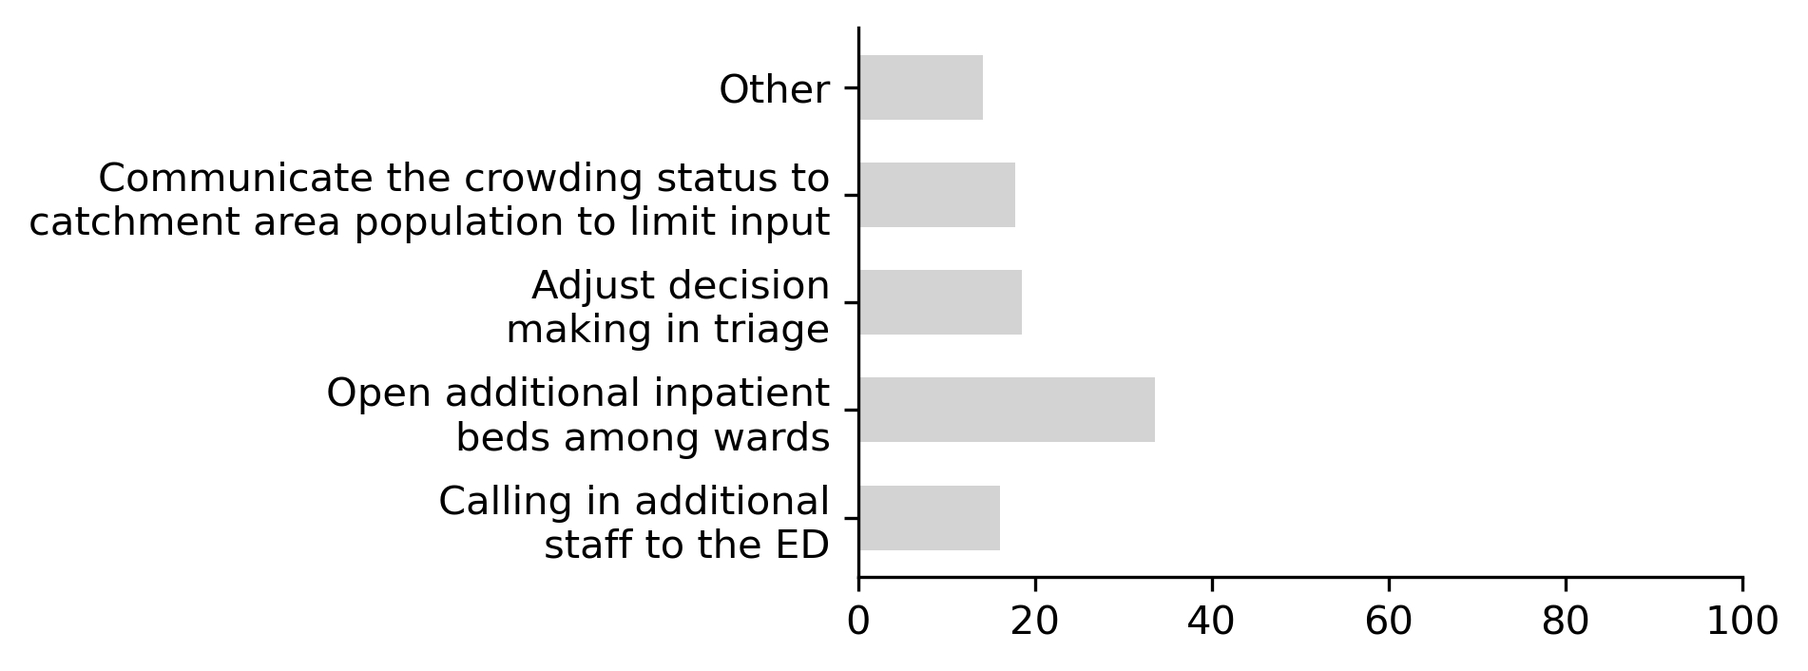
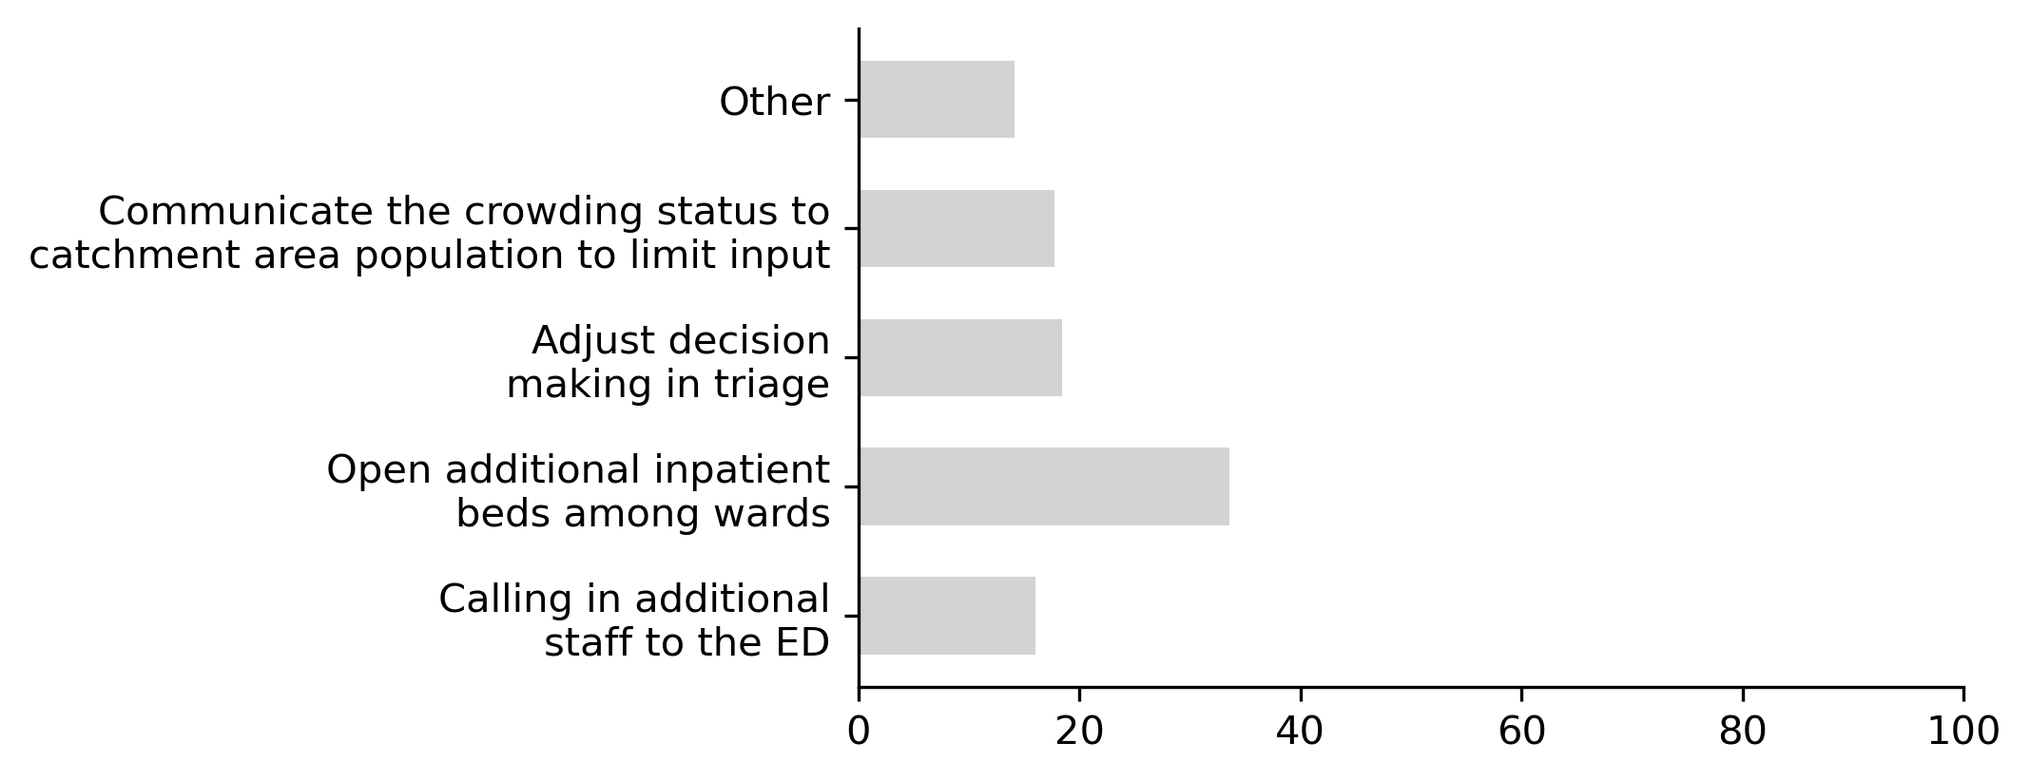
Cosmetic changes and layout improvements

diff --git a/report/manuscript.tex b/report/manuscript.tex
@@ -9,6 +9,8 @@
 \usepackage{makecell}
 \usepackage{xcolor}
 \usepackage{amsmath}
+\usepackage{hyperref}
+
 
 
 \title{Emergency department crowding in Europe: Causes, effects, extent and solutions as evaluated by 364 emergency department physicians from 26 European countries}
@@ -35,13 +37,13 @@ Second, the causes of crowding have been hypothesised and it is certainly easy t
 
 Third, there is an increasing interest in applying demand management solutions to the crowding problem. The rationale here is simple and well-justified: if we can predict when the ED will be crowded, we can enable pre-emptive meausures to prevent crowding and save lives in the process. This is analogous to patient monitoring that is extensively done in all hospitals dedicated to quality care: instead of utilizing a national early warning score to predict the probability of death for a single patient, ED demand management effort aims to create an early warning score to predict the probability of death for a cohort of ED patients. These articles have reached a level of high mathematical and compuational complexity and demonstrated sometimes impressive performance retrospectively. However, we have seen very little engagement with the ED stakeholders regarding many important questions in this area such as: do clinicians actually want a predictive model to their ED? If yes, would it enable relevant interventions to alleviate crowding problem? Who -- if anyone -- is able to act based on the information? What should we actually predict for: arrivals, occupancy or something else?
 
-In this article, we aim to bridge the gap between policymakers, emergency department physicians and mathematicians by asking these unclear questions from the people who know the answers first hand: those clinicians who work in the front lines of the emergency departments all over Europe.
+In this article, we aim to bridge the gap between policymakers, emergency department physicians and mathematicians by asking these unclear questions from the people who know the answers first hand: those clinicians who work in the front lines of the emergency departments all over Europe. Our contributions are as follows: 
 
 % This might seem mundane but it demonstrates something important: almost everyone has a first hand experience visiting an ED and that experience ends up shaping the image of the healthcare system.
 
   
-\textcolor{red}{Lisäanalyysi: ruuhka terveydenhuollon kustannusten funktiona}
-\textcolor{red}{Lisäanalyysi: ruuhka yksityinen vs. julkinen terveydenhuolto}
+% \textcolor{red}{Lisäanalyysi: ruuhka terveydenhuollon kustannusten funktiona}
+% \textcolor{red}{Lisäanalyysi: ruuhka yksityinen vs. julkinen terveydenhuolto}
 
 
 
@@ -88,34 +90,29 @@ where $\texttt{c}_k$ is the country-level response for country $k$, $\texttt{h}_
 	\texttt{EU} = \sum_{k=1}^{K} w_k \cdot \texttt{c}_k
 \end{equation}
 
-where $\texttt{EU}$ is the Europe-level response, $\texttt{c}_k$ is the country-level response for country $k$, $w_k = \frac{p_k}{\sum_{k=1}^{K} p_k}$ is the population weight for country $k$, $p_k$ is the population of country $k$, and $K$ is the total number of countries.
-
-Later, whenever results are represented or discussed, the specific level is expressed using the terminology above.
+where $\texttt{EU}$ is the Europe-level response, $\texttt{c}_k$ is the country-level response for country $k$, $w_k = \frac{p_k}{\sum_{k=1}^{K} p_k}$ is the population weight for country $k$, $p_k$ is the population of country $k$, and $K$ is the total number of countries. Later, whenever results are represented or discussed, the specific level is expressed using the terminology above.
 
 \section{Results}
 
 
-\subsection{Respondents}
-
-The respondent characteristics are presented in Table \ref{tab:description}. There were a total of 364 responses from 254 individual hospitals and from 26 individual countries. The number of responses from different countries was heavily Pareto distributed: for example the United Kindgom and Turkey provided 92 and 39 responses respectively whereas some countires such as Belgium, Lithuania or Switzerland had only one respondent each. 163 (45\%) of respondents were specialists, 91 (25\%) department heads, 65 (18\%) residents and 14 (4\%) were trainees. The remaining 31 (9\%) respondents described their position as \emph{Other}. Most of the responses were provided by physicians working at a tertiary hospital 217 (59\%) followed by secondary care with 117 (32\%) and primary care hospitals with 23 (6\%) responses. 7 (2\%) reported their hospital to belong to \emph{Other} category.
-
+\paragraph{Respondent characteristics} The respondent characteristics are presented in Table \ref{tab:description}. There were a total of 364 responses from 254 individual hospitals and from 26 individual countries. The number of responses from different countries was heavily Pareto distributed: for example the United Kindgom and Turkey provided 92 and 39 responses respectively whereas some countires such as Belgium, Lithuania or Switzerland had only one respondent each. 163 (45\%) of respondents were specialists, 91 (25\%) department heads, 65 (18\%) residents and 14 (4\%) were trainees. The remaining 31 (9\%) respondents described their position as \emph{Other}. Most of the responses were provided by physicians working at a tertiary hospital 217 (59\%) followed by secondary care with 117 (32\%) and primary care hospitals with 23 (6\%) responses. 7 (2\%) reported their hospital to belong to \emph{Other} category.
 
 \input{../output/tables/description.tex}
 
-\subsection{Extent, definitions and consequenses}
+\subsection{Extent, definitions and consequenses of crowding}
 
 The geographic distribution of crowding across Europe reveals substantial variation between countries. Figure \ref{fig:crowding_map} presents the proportion of crowded days during a typical operating month as reported by respondents and aggregated to country level. The map demonstrates that crowding is widespread across the continent, with particularly high prevalence in Ireland, Malta, Greece, the United Kingdom, and Turkey. In contrast, countries such as Lithuania, Switzerland, Denmark, the Netherlands, and Spain reported comparatively lower proportions of crowded days. This geographic heterogeneity suggests that crowding is not uniformly distributed across European healthcare systems and may reflect differences in healthcare infrastructure, population demographics, or healthcare utilization patterns.
 
-\begin{figure}[H]
+\begin{figure}[h]
     \centering
-        \includegraphics[width=1.0\textwidth]{../output/plots/crowding_map}
+        \includegraphics[width=0.7\textwidth]{../output/plots/crowding_map}
         \caption{Map of the proportion of crowded days during a normal operating month as estimated by the respondents and aggregated to country level.}
         \label{fig:crowding_map}
 \end{figure}
 
 Figure \ref{fig:country_crowding} presents the distribution of reported crowding days across countries in greater detail. The median proportion of crowded days ranged from 0\% in Lithuania to 84\% in Ireland. Several countries demonstrated particularly high median values, including Malta (78\%), Greece (78\%), the United Kingdom (73\%), and Turkey (70\%). In contrast, Switzerland, Denmark, the Netherlands, and Spain reported median values below 10\%. The boxplots reveal considerable within-country variation in most participating nations, indicating that individual hospitals within the same country experience crowding to varying degrees. Several countries, including the United Kingdom, Turkey, and Greece, demonstrate both high median values and substantial interquartile ranges, suggesting that crowding is both severe and heterogeneous within these healthcare systems. The presence of outliers in multiple countries further underscores the variable nature of emergency department crowding even within relatively uniform healthcare policy environments.
 
-\begin{figure}[H]
+\begin{figure}[h]
     \centering
         \includegraphics[width=1.0\textwidth]{../output/plots/country_crowding}
         \caption{The proportion of crowded days during a normal operating month as estimated by the respondents.}
@@ -124,7 +121,7 @@ Figure \ref{fig:country_crowding} presents the distribution of reported crowding
 
 The perceived severity of crowding is presented in Figure \ref{fig:severity}. At the EU level, 42\% of respondents rated crowding as severe and 17\% as very severe, meaning that a total of 59\% considered crowding to be a severe or very severe problem. An additional 31\% rated crowding as moderate, while only 9\% characterized it as slight and less than 1\% indicated that crowding was not a problem at all. In total, 91\% of respondents rated crowding as at least a moderate problem. This near-universal recognition of crowding as a substantial issue provides empirical support for the increasing attention the problem has received in both academic literature and healthcare policy discussions. The consistency of these perceptions across diverse healthcare systems and geographic regions suggests that crowding represents a systemic challenge rather than a localized phenomenon.
 
-\begin{figure}[H]
+\begin{figure}[h]
     \centering
         \includegraphics[width=1.0\textwidth]{../output/plots/severity}
         \caption{Perceived severity of emergency department crowding based on country level statistics}
@@ -133,14 +130,14 @@ The perceived severity of crowding is presented in Figure \ref{fig:severity}. At
 
 Despite the widespread recognition of crowding as a severe problem, Figure \ref{fig:definition} reveals a striking absence of standardized definitions. At the EU level, 75\% of respondents reported that their emergency department had no formal definition of crowding. Among those who did report using a definition, 15\% used locally developed criteria categorized as ``Other,'' while only 7\% used NEDOCS, 2\% used EDOR threshold, and 1\% used EDWIN. This lack of standardized measurement presents a fundamental challenge for both research and policy intervention. Without consistent definitions, it becomes difficult to compare crowding severity across institutions, evaluate the effectiveness of interventions, or establish evidence-based benchmarks for acceptable emergency department performance.
 
-\begin{figure}[H]
+\begin{figure}[h]
     \centering
         \includegraphics[width=1.0\textwidth]{../output/plots/definition}
         \caption{Distribution of utilized crowding definitions aggregated to EU level}
         \label{fig:definition}
 \end{figure}
 
-\subsection{Causes}
+\subsection{Causes of crowding stratified by Asplin's model}
 
 The perceived causes of emergency department crowding are presented in Figure \ref{fig:causes}, organized according to Asplin's conceptual model which categorizes contributing factors into input, throughput, and output components. Respondents rated each potential cause on a five-point scale from unimportant to very important. The results are aggregated to EU level and presented as the proportion of respondents selecting each importance category.
 
@@ -162,7 +159,7 @@ Output factors received the highest importance ratings overall. Organisational c
 
 Figure \ref{fig:interventions} presents the interventions that emergency departments report using when crowding occurs. The most commonly reported intervention was opening additional inpatient beds among wards, used by 34\% of respondents. Adjusting decision making in triage was reported by 19\% of respondents, while communicating the crowding status to the catchment area population to limit input was used by 18\% of respondents. Calling in additional staff to the emergency department was reported by 16\% of respondents, and 14\% reported using other interventions. These findings indicate that output-focused interventions, particularly increasing bed availability, are the most commonly employed response to crowding.
 
-\begin{figure}[H]
+\begin{figure}[h]
     \centering
         \includegraphics[width=1.0\textwidth]{../output/plots/interventions}
         \caption{Interventions used when crowding occurs, based on EU-level statistics.}
@@ -171,15 +168,18 @@ Figure \ref{fig:interventions} presents the interventions that emergency departm
 
 Regarding the potential role of demand forecasting and early warning systems, respondents demonstrated substantial interest in these technologies. As shown in Figure \ref{fig:benefit}, 64\% of respondents believed that sufficiently accurate patient volume forecasting or crowding early warning software would help alleviate the crowding problem, while 36\% did not believe it would help. However, Figure \ref{fig:usage} reveals a striking gap between perceived potential and current implementation: only 6\% of respondents reported currently using patient volume forecasting or crowding early warning software to guide decision making, while 94\% reported not using such systems. This disparity suggests that while there is substantial interest in demand management approaches, their practical implementation remains limited across European emergency departments.
 
-\begin{figure}[H]
+\begin{figure}[h]
     \centering
     \begin{subfigure}[b]{0.4\textwidth}
-        \includegraphics[width=\textwidth]{../output/plots/benefit}
+        \centering
+        \includegraphics[width=0.9\textwidth]{../output/plots/benefit}
         \caption{Would sufficiently accurate patient volume forecasting or crowding early warning software help alleviate the crowding problem?}
         \label{fig:benefit}
-    \end{subfigure}
+    \end{subfigure}%
+    \hfill
     \begin{subfigure}[b]{0.4\textwidth}
-        \includegraphics[width=\textwidth]{../output/plots/usage}
+        \centering
+        \includegraphics[width=0.9\textwidth]{../output/plots/usage}
         \caption{Do you currently use a patient volume forecasting or crowding early warning software to guide decision making?}
         \label{fig:usage}
     \end{subfigure}
@@ -189,7 +189,7 @@ Regarding the potential role of demand forecasting and early warning systems, re
 
 Figure \ref{fig:horizon} presents the minimum forecasting horizon that respondents considered necessary for such systems to be useful. The responses were distributed across multiple time scales, with short to medium-term horizons receiving the most support. Two to seven days was the most frequently selected horizon at 30\%, followed closely by eight to 24 hours at 29\%. Shorter horizons of one to eight hours were preferred by 17\% of respondents. Medium-term horizons of one to two weeks received 13\% of responses, while longer horizons were less popular: three to four weeks and one to three months each received 5\% of responses, and four to 12 months received only 2\%. These results indicate a preference for forecasting systems that operate on timescales ranging from several hours to several days, which aligns with the operational planning horizons of most emergency departments.
 
-\begin{figure}[H]
+\begin{figure}[h]
     \centering
         \includegraphics[width=1.0\textwidth]{../output/plots/horizon}
         \caption{Minimum forecasting horizon required for forecasting software to be useful.}
@@ -199,7 +199,7 @@ Figure \ref{fig:horizon} presents the minimum forecasting horizon that responden
 Figure \ref{fig:enabled} presents the importance of interventions that could be enabled by demand forecasting, organized according to whether they affect input, throughput, or output. Output interventions were rated as substantially more important than input or throughput interventions. For output interventions, 63\% of respondents rated them as very important and 26\% as important, yielding a combined importance of 89\%. Throughput interventions received 26\% very important and 39\% important ratings, for a combined 65\%. Input interventions received 22\% very important and 41\% important ratings, for a combined 63\%. These findings align with the earlier results showing that output factors are perceived as the most important causes of crowding, and suggest that demand forecasting systems would be most valued for their ability to enable interventions that facilitate patient flow out of the emergency department.
 
 
-\begin{figure}[H]
+\begin{figure}[h]
     \centering
     \begin{subfigure}[b]{0.4\textwidth}
         \includegraphics[width=\textwidth]{../output/plots/enabled}
@@ -217,28 +217,25 @@ Figure \ref{fig:enabled} presents the importance of interventions that could be 
 
 \section{Discussion}
 
-\paragraph{Implications to policymakers}
+In this study, we provide important insights to policymakers, emergency department management and demand planning practitioners. These findings are their meaning is discussed below stratified based on these constituents.
 
-91\% of respondents consider crowding to be at least a moderate problem and x\% consider the problem to be severe or very severe. At the same time, emergency departments in Europe are crowded on z\% of days on average. These findings underline the importance and severity of the problem as a public health issue.
+\paragraph{Implications to policymakers and hospital management}
 
-Exit block was clearly the most important perceived cause of the problem and by extension the most important solution and intervention. This is important for policymakers and hospital management alike: it means that solving emergency department crowding does not happen primarily at the ED but at the more systemic level of inpatient operations.
-
-Policymakers should also consider that the problem affects different nations disproportionately and they should be aware of where their country is situated in comparison to other european countries. Naturally, countries where the problem is considered to be 
-
-\paragraph{Implications to machine learning practitioners}
-
-The most important finding for the machine learning practitioners is the mismatch between perceived benefit (x\%) and rate of adoption of demand management solutions or other forecasting software implementations (y\%). Based on this finding, we encourage software engineers to engage more actively with clinical stakeholders and open the discussion on how to bridge this gap and build solutions that can actually benefit the day-to-day operations management. 
-
-However, it is important to understand that engaging with emergency department stakeholders will not be enough. The most important interventions include dynamically adjusting the follow-up care bed capacity and those interventions are not in the hands of the ED stakeholders. Building and implementing these solutions thus requires inclusion of at least three constituents: machine learning pracitioners, ED management and inpatient operations management.
-
-From a practical standpoint, the x\% of respondents would be satisfied with relatively short forecast horizon of 24 hours or less and the vast majority of y\% wished to see the future 7 days ahead. This in encouragind because difficulty of forecasting grows exponentially as a function of the forecast horizon. Practitioners should thus focus on building these short-time-span early-warning systems before aiming to expand the size of the predictive window.
+91\% of respondents consider crowding to be at least a moderate problem and 59\% consider the problem to be severe or very severe. At the same time, emergency departments in Europe are crowded on 39\% of days on average. These findings underline the importance and severity of the problem as a public health issue. Exit block was clearly the most important perceived cause of the problem and by extension the most important solution and intervention. This is important for policymakers and hospital management alike: it means that solving emergency department crowding does not happen primarily at the ED but at the more systemic level of inpatient operations. Policymakers should also consider that the problem affects different nations disproportionately and they should be aware of where their country is situated in comparison to other european countries. Naturally, countries where the problem is considered to be 
 
 \paragraph{Implications to emergency department stakeholders}
 
- Only z\% of hospitals have a formal definition for crowding which is surprising when contrasted with the fact that 91\% of hospitals consider crowding to be at least a moderate problem. How can it be that most consider crowding to be a problem if most of the respondents don't even have a formal defintion for it? The answer is -- of course -- that crowding is typically defined as the 'gut feeling' of the clinicians. This is a problem because in order to articulate the problem and demonstrate its development, clinical stakeholders have to be able to objectively, quantitatively and repeatedly demonstrate and articulate the extent of the problem to both hospital management and policymakers.
+ Only 25\% of hospitals have a formal definition for crowding which is surprising when contrasted with the fact that 91\% of hospitals consider crowding to be at least a moderate problem. How can it be that most consider crowding to be a problem if most of the respondents don't even have a formal defintion for it? The answer is -- of course -- that crowding is typically defined as the 'gut feeling' of the clinicians. This is a problem because in order to articulate the problem and demonstrate its development, clinical stakeholders have to be able to objectively, quantitatively and repeatedly demonstrate and articulate the extent of the problem to both hospital management and policymakers.
 
  Adoption of the existing crowding frameworks such as NEDOCS or EDWIN were rare which might be related to their relative complexity and poor adaptability to European emergency medicine setting. We thus encourage both the development and adaption of a standardized European crowding metric that can then be used to benchmarking, research, operations management and continuous operational improvement in collaboration with hospital management and policymakers. One potential approach is wider adoption of thresholds based on emergency department occupancy ratio which is mathematically easy to express, easy to understand and readily transferrable to any ED setting.
 
+\paragraph{Implications to machine learning practitioners}
+
+The most important finding for the machine learning practitioners is the mismatch between perceived benefit (64\%) and rate of adoption of demand management solutions or other forecasting software implementations (6\%). Based on this finding, we encourage software engineers to engage more actively with clinical stakeholders and open the discussion on how to bridge this gap and build solutions that can actually benefit the day-to-day operations management. 
+
+However, it is important to understand that engaging with emergency department stakeholders will not be enough. The most important interventions include dynamically adjusting the follow-up care bed capacity and those interventions are not in the hands of the ED stakeholders. Building and implementing these solutions thus requires inclusion of at least three constituents: machine learning pracitioners, ED management and inpatient operations management.
+
+From a practical standpoint, the 46\% of respondents would be satisfied with relatively short forecast horizon of 24 hours or less and the vast majority of 76\% wished to see the future 7 days ahead. This in encouragind because difficulty of forecasting grows exponentially as a function of the forecast horizon. Practitioners should thus focus on building these short-time-span early-warning systems before aiming to expand the size of the predictive window.
 
 
 \subsection{Limitations} The frequencies of the responses from each country followed a Pareto distribution where -- for example -- the United Kingdom provided a high number of responses (n=92) as compared to Belgium, Lithuania or Switzerland (n=1). Although the responses were standardized to eliminate the evident mathematical bias this creates, there is not a `post hoc` method to remove the...

diff --git a/output/tables/description.tex b/output/tables/description.tex
@@ -4,7 +4,7 @@
 \footnotesize
 \makebox[\textwidth][c]{%
 \resizebox{1.2\textwidth}{!}{%
-\begin{tabular}{p{1.0cm}p{1.1cm}p{0.07cm}p{0.07cm}p{0.07cm}p{0.07cm}p{0.07cm}p{0.07cm}p{0.07cm}p{0.07cm}p{0.07cm}p{0.07cm}p{0.07cm}p{0.07cm}p{0.07cm}p{0.07cm}p{0.07cm}p{0.07cm}p{0.07cm}p{0.07cm}p{0.07cm}p{0.07cm}p{0.07cm}p{0.07cm}p{0.07cm}p{0.07cm}p{0.07cm}p{0.07cm}p{0.07cm}}
+\begin{tabular}{p{1.0cm}p{1.1cm}p{0.07cm}p{0.07cm}p{0.07cm}p{0.07cm}p{0.07cm}p{0.07cm}p{0.07cm}p{0.07cm}p{0.07cm}p{0.07cm}p{0.07cm}p{0.07cm}p{0.07cm}p{0.07cm}p{0.07cm}p{0.07cm}p{0.07cm}p{0.07cm}p{0.07cm}p{0.07cm}p{0.07cm}p{0.07cm}p{0.07cm}p{0.07cm}p{0.07cm}p{0.07cm}p{0.4cm}}
 \toprule
  &  & \rotatebox{90}{Albania} & \rotatebox{90}{Austria} & \rotatebox{90}{Belgium} & \rotatebox{90}{Croatia} & \rotatebox{90}{Denmark} & \rotatebox{90}{Estonia} & \rotatebox{90}{Finland} & \rotatebox{90}{France} & \rotatebox{90}{Germany} & \rotatebox{90}{Greece} & \rotatebox{90}{Hungary} & \rotatebox{90}{Iceland} & \rotatebox{90}{Ireland} & \rotatebox{90}{Italy} & \rotatebox{90}{Lithuania} & \rotatebox{90}{Malta} & \rotatebox{90}{Netherlands} & \rotatebox{90}{Norway} & \rotatebox{90}{Poland} & \rotatebox{90}{Romania} & \rotatebox{90}{Slovenia} & \rotatebox{90}{Spain} & \rotatebox{90}{Sweden} & \rotatebox{90}{Switzerland} & \rotatebox{90}{Turkey} & \rotatebox{90}{United Kingdom} & \rotatebox{90}{Total} \\
 \midrule
